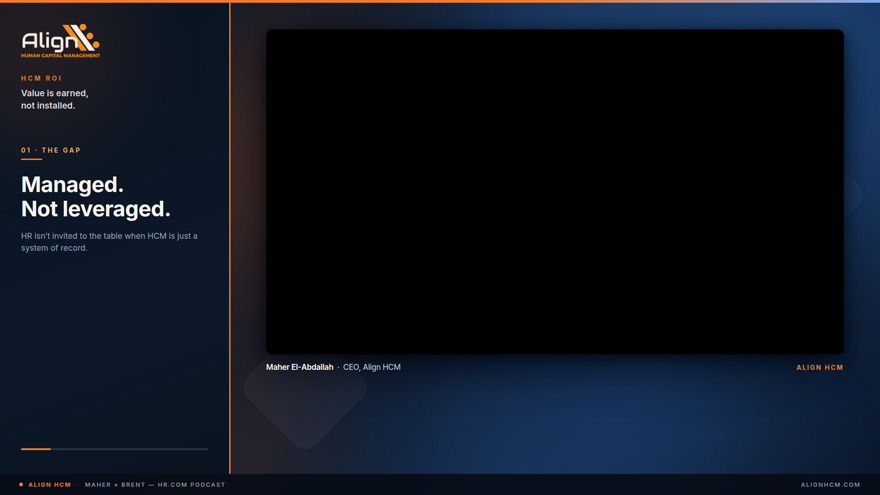
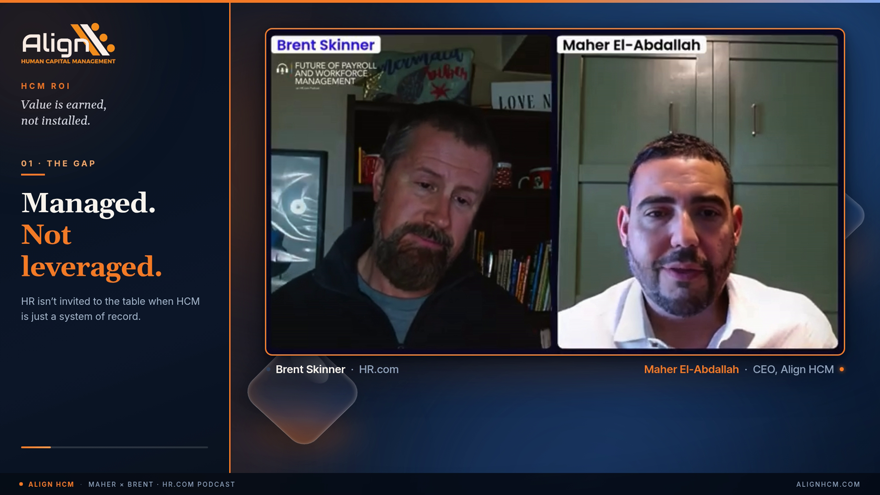
V2: two-up framing, bigger Gelasio type, swipe transitions, glass elements
Claude-Session: https://claude.ai/code/session_01EGRfP7ybnWtJjoejwcWe6i

diff --git a/03_Content/Video-Edits/align-hcm-maher-brent-roi-earned/pipeline/gfx.html b/03_Content/Video-Edits/align-hcm-maher-brent-roi-earned/pipeline/gfx.html
@@ -1,8 +1,10 @@
 <meta charset="utf-8">
 <style>
-  @font-face { font-family:'Libre Baskerville'; src:url('fonts/LibreBaskervilleRegular.ttf'); font-weight:400; }
-  @font-face { font-family:'Libre Baskerville'; src:url('fonts/LibreBaskervilleBold.ttf'); font-weight:700; }
-  @font-face { font-family:'Libre Baskerville'; src:url('fonts/LibreBaskervilleItalic.ttf'); font-style:italic; font-weight:400; }
+  @font-face { font-family:'Gelasio'; src:url('fonts/GelasioRegular.ttf'); font-weight:400; }
+  @font-face { font-family:'Gelasio'; src:url('fonts/GelasioSemiBold.ttf'); font-weight:600; }
+  @font-face { font-family:'Gelasio'; src:url('fonts/GelasioBold.ttf'); font-weight:700; }
+  @font-face { font-family:'Gelasio'; src:url('fonts/GelasioItalic.ttf'); font-style:italic; font-weight:400; }
+  @font-face { font-family:'Gelasio'; src:url('fonts/GelasioBoldItalic.ttf'); font-style:italic; font-weight:700; }
   @font-face { font-family:'Inter'; src:url('fonts/InterRegular.ttf'); font-weight:400; }
   @font-face { font-family:'Inter'; src:url('fonts/InterMedium.ttf'); font-weight:500; }
   @font-face { font-family:'Inter'; src:url('fonts/InterSemiBold.ttf'); font-weight:600; }
@@ -12,26 +14,36 @@
   * { margin:0; padding:0; box-sizing:border-box; }
   html,body { width:1920px; height:1080px; overflow:hidden; background:transparent; }
 
-  /* ---------- shared background (brand: #0E1A2B base) ---------- */
-  .stage { position:absolute; inset:0; width:1920px; height:1080px; overflow:hidden;
+  /* ---------- shared background ---------- */
+  .stage { position:absolute; inset:0; width:1920px; height:1080px; overflow:hidden; perspective:1300px;
            background:linear-gradient(118deg,#0B1626 0%,#0E1A2B 40%,#132A4A 74%,#0C1B31 100%); }
   .glow  { position:absolute; border-radius:50%; filter:blur(130px); }
   .glow.blue   { width:1150px; height:900px; right:-160px; top:-260px; background:rgba(46,105,180,.40); }
   .glow.blue2  { width:800px;  height:700px; right:240px;  bottom:-340px; background:rgba(38,84,150,.28); }
   .glow.orange { width:640px;  height:640px; left:280px;  top:40px;  background:rgba(198,90,28,.26); }
   .glow.orange2{ width:520px;  height:520px; left:180px; bottom:-200px; background:rgba(198,90,28,.16); }
-  .diamond { position:absolute; border-radius:34px; transform:rotate(45deg); background:rgba(255,255,255,.045); }
-  .d1 { width:230px; height:230px; right:300px; top:120px; }
-  .d2 { width:170px; height:170px; right:60px;  top:340px; background:rgba(255,255,255,.035); }
-  .d3 { width:210px; height:210px; left:560px;  bottom:130px; background:rgba(255,255,255,.04); }
   .vignette { position:absolute; inset:0; background:radial-gradient(120% 95% at 50% 42%, transparent 55%, rgba(4,9,18,.55) 100%); }
+
+  /* ---------- liquid glass squares ---------- */
+  .gwrap { position:absolute; transform-style:preserve-3d; }
+  .gshadow { position:absolute; left:-14%; top:64%; width:128%; height:60%; border-radius:50%;
+             filter:blur(30px);
+             background:radial-gradient(ellipse at center, rgba(244,122,37,.60) 0%, rgba(230,100,30,.28) 48%, rgba(244,122,37,0) 76%); }
+  .glass { position:absolute; inset:0; border-radius:20%; transform:rotate(45deg);
+           background:linear-gradient(135deg, rgba(255,255,255,.20) 0%, rgba(255,255,255,.06) 42%, rgba(127,169,240,.13) 72%, rgba(244,122,37,.10) 100%);
+           border:1.5px solid rgba(255,255,255,.30);
+           box-shadow: inset 0 2px 10px rgba(255,255,255,.28), inset 0 -14px 30px rgba(244,122,37,.14),
+                       0 24px 60px rgba(3,8,16,.45);
+           backdrop-filter: blur(12px) saturate(135%); }
+  .glass::after { content:''; position:absolute; left:8%; top:6%; width:52%; height:30%; border-radius:50%;
+                  background:linear-gradient(180deg, rgba(255,255,255,.30), rgba(255,255,255,0)); }
 
   /* ---------- top accent + footer ---------- */
   .topbar { position:absolute; left:0; right:0; top:0; height:6px; z-index:45;
             background:linear-gradient(90deg,#F47A25 0%,#F47A25 60%,#7FA9F0 100%); }
-  .footer { position:absolute; left:0; right:0; bottom:0; height:46px; background:rgba(7,12,22,.90);
+  .footer { position:absolute; left:0; right:0; bottom:0; height:48px; background:rgba(7,12,22,.90);
             display:flex; align-items:center; justify-content:space-between; padding:0 42px;
-            font-family:Inter; font-size:13px; letter-spacing:.16em; z-index:40; }
+            font-family:Inter; font-size:14px; letter-spacing:.16em; z-index:40; }
   .footer .l { display:flex; align-items:center; gap:12px; }
   .footer .dot { width:8px; height:8px; border-radius:50%; background:#F47A25; }
   .footer .brand { color:#F47A25; font-weight:700; }
@@ -39,65 +51,69 @@
   .footer .rest, .footer .r { color:#8FA3BC; font-weight:500; }
 
   /* ---------- intro ---------- */
-  #intro .dash { position:absolute; left:50%; top:288px; width:74px; height:4px; margin-left:-37px;
+  #intro .dash { position:absolute; left:50%; top:272px; width:84px; height:4px; margin-left:-42px;
                  background:linear-gradient(90deg,#F47A25,#7FA9F0); transform-origin:left; }
-  #intro .logoWrap { position:absolute; left:50%; top:352px; transform:translateX(-50%); width:620px; }
+  #intro .logoWrap { position:absolute; left:50%; top:336px; transform:translateX(-50%); width:660px; }
   #intro .logoWrap img { width:100%; display:block; }
-  #intro .tag { position:absolute; left:0; right:0; top:742px; text-align:center;
-                font-family:'Libre Baskerville'; font-style:italic; font-size:38px; color:#F7F4EE; }
+  #intro .tag { position:absolute; left:0; right:0; top:752px; text-align:center;
+                font-family:'Gelasio'; font-style:italic; font-size:48px; color:#F7F4EE; }
   #intro .tag .earned { color:#F47A25; }
-  #intro .ep { position:absolute; left:0; right:0; top:822px; text-align:center; font-family:Inter;
-               font-weight:600; font-size:15px; letter-spacing:.36em; color:#7E93AE; text-transform:uppercase; }
+  #intro .ep { position:absolute; left:0; right:0; top:846px; text-align:center; font-family:Inter;
+               font-weight:600; font-size:17px; letter-spacing:.36em; color:#8FA3BC; text-transform:uppercase; }
 
   /* ---------- outro ---------- */
-  #outro .dash { position:absolute; left:50%; top:262px; width:74px; height:4px; margin-left:-37px;
+  #outro .dash { position:absolute; left:50%; top:250px; width:84px; height:4px; margin-left:-42px;
                  background:linear-gradient(90deg,#F47A25,#7FA9F0); transform-origin:center; }
-  #outro .h1 { position:absolute; left:0; right:0; top:316px; text-align:center; font-family:'Libre Baskerville';
-               font-weight:700; font-size:78px; color:#F7F4EE; letter-spacing:-.5px; }
+  #outro .h1 { position:absolute; left:0; right:0; top:298px; text-align:center; font-family:'Gelasio';
+               font-weight:700; font-size:95px; color:#F7F4EE; letter-spacing:-1px; }
   #outro .h1 .accent { color:#F47A25; }
-  #outro .sub { position:absolute; left:0; right:0; top:466px; text-align:center; font-family:'Libre Baskerville';
-                font-style:italic; font-size:34px; color:#D9E3F2; }
+  #outro .sub { position:absolute; left:0; right:0; top:468px; text-align:center; font-family:'Gelasio';
+                font-style:italic; font-size:38px; color:#D9E3F2; }
   #outro .sub .orange { color:#F47A25; }
-  #outro .lockup { position:absolute; left:50%; top:592px; transform:translateX(-50%); width:340px; }
+  #outro .lockup { position:absolute; left:50%; top:600px; transform:translateX(-50%); width:350px; }
   #outro .lockup img { width:100%; display:block; }
-  #outro .url { position:absolute; left:0; right:0; top:796px; text-align:center; font-family:Inter;
-                font-weight:600; font-size:19px; letter-spacing:.34em; color:#F47A25; }
+  #outro .url { position:absolute; left:0; right:0; top:812px; text-align:center; font-family:Inter;
+                font-weight:700; font-size:21px; letter-spacing:.34em; color:#F47A25; }
 
-  /* ---------- plate: sidebar + box area (reference layout) ---------- */
-  .sidebar { position:absolute; left:0; top:6px; width:500px; height:1028px; z-index:30;
+  /* ---------- plate: sidebar + box ---------- */
+  .sidebar { position:absolute; left:0; top:6px; width:500px; height:1026px; z-index:30;
              background:linear-gradient(160deg,#0A1422 0%,#0C1828 70%,#0A1320 100%); }
   .sidebar .sglow { position:absolute; width:420px; height:420px; left:-140px; top:-120px; border-radius:50%;
                     background:rgba(198,90,28,.13); filter:blur(90px); }
-  .divider { position:absolute; left:500px; top:6px; width:3px; height:1028px; background:#F47A25; z-index:31; }
-  .sidebar .slogo { width:172px; margin:46px 0 0 46px; display:block; }
-  .sidebar .series { margin:34px 46px 0 46px; font-family:Inter; font-weight:700; font-size:14px;
+  .divider { position:absolute; left:500px; top:6px; width:3px; height:1026px; background:#F47A25; z-index:31; }
+  .sidebar .slogo { width:206px; margin:44px 0 0 46px; display:block; }
+  .sidebar .series { margin:36px 46px 0 46px; font-family:Inter; font-weight:700; font-size:17px;
                      letter-spacing:.30em; color:#F47A25; text-transform:uppercase; }
-  .sidebar .seriesTitle { margin:12px 46px 0 46px; font-family:Inter; font-weight:600; font-size:19px;
-                          line-height:1.4; color:#D9E3F2; }
-  .sidebar .secwrap { margin:74px 46px 0 46px; }
-  .sidebar .sec { font-family:Inter; font-weight:700; font-size:14px; letter-spacing:.26em;
+  .sidebar .seriesTitle { margin:14px 46px 0 46px; font-family:'Gelasio'; font-style:italic; font-weight:400;
+                          font-size:26px; line-height:1.35; color:#D9E3F2; }
+  .sidebar .secwrap { margin:64px 46px 0 46px; }
+  .sidebar .sec { font-family:Inter; font-weight:700; font-size:18px; letter-spacing:.24em;
                   color:#F4A96A; text-transform:uppercase; }
-  .sidebar .secline { width:46px; height:3px; background:#F47A25; margin-top:10px; }
-  .sidebar .h { margin-top:26px; font-family:Inter; font-weight:800; font-size:47px; line-height:1.14;
-                letter-spacing:-.015em; color:#F7F4EE; }
-  .sidebar .subtext { margin-top:20px; font-family:Inter; font-weight:400; font-size:17.5px; line-height:1.5;
-                      color:#93A5BD; max-width:400px; }
-  .sidebar .progresswrap { position:absolute; left:46px; bottom:52px; width:408px; }
+  .sidebar .secline { width:52px; height:4px; background:#F47A25; margin-top:12px; }
+  .sidebar .h { margin-top:28px; font-family:'Gelasio'; font-weight:700; font-size:60px; line-height:1.16;
+                letter-spacing:-1px; color:#F7F4EE; }
+  .sidebar .h .hl { color:#F47A25; }
+  .sidebar .subtext { margin-top:22px; font-family:Inter; font-weight:400; font-size:21.5px; line-height:1.5;
+                      color:#A6B7CC; max-width:410px; }
+  .sidebar .progresswrap { position:absolute; left:46px; bottom:54px; width:408px; }
   .sidebar .ptrack { width:100%; height:4px; background:rgba(255,255,255,.13); border-radius:2px; }
-  .sidebar .pfill { height:4px; background:#F47A25; border-radius:2px; width:20%; }
+  .sidebar .pfill { height:4px; background:linear-gradient(90deg,#F47A25,#FF9A4D); border-radius:2px; width:20%; }
 
-  /* under-box labels (on plate, below window) */
   .boxlabels { position:absolute; left:581px; top:791px; width:1260px; display:flex;
                justify-content:space-between; align-items:center; z-index:30; }
-  .boxlabels .who { font-family:'Inter Tight'; font-weight:500; font-size:17px; color:#AEBDD1; letter-spacing:.02em; }
+  .boxlabels .who { font-family:'Inter Tight'; font-weight:500; font-size:24px; color:#93A5BD; letter-spacing:.02em;
+                    display:flex; align-items:center; gap:12px; }
   .boxlabels .who b { color:#F7F4EE; font-weight:600; }
-  .boxlabels .brandtag { font-family:Inter; font-weight:700; font-size:14px; letter-spacing:.18em; color:#F47A25; }
+  .boxlabels .who .adot { width:9px; height:9px; border-radius:50%; background:#31405A; }
+  .boxlabels .who.active .adot { background:#F47A25; box-shadow:0 0 10px rgba(244,122,37,.8); }
+  .boxlabels .who.active b { color:#F47A25; }
 
-  /* window shadow on plate (video sits above it) */
   .window-shadow { position:absolute; left:581px; top:64px; width:1260px; height:709px; border-radius:14px;
                    box-shadow:0 30px 90px rgba(2,6,14,.75), 0 6px 26px rgba(2,6,14,.6); background:#000; }
+  .window-glow { position:absolute; left:601px; top:700px; width:1220px; height:120px; border-radius:50%;
+                 filter:blur(46px);
+                 background:radial-gradient(ellipse at center, rgba(244,122,37,.34) 0%, rgba(244,122,37,.10) 55%, transparent 78%); }
 
-  /* ---------- chrome pass: orange ring above video ---------- */
   .ring { position:absolute; left:578px; top:61px; width:1266px; height:715px; border-radius:16px;
           border:3px solid #F47A25; z-index:20; box-shadow:inset 0 1px 0 rgba(255,255,255,.06); }
 </style>
@@ -105,7 +121,9 @@
 <div class="stage" id="bg">
   <div class="glow blue"></div><div class="glow blue2"></div>
   <div class="glow orange"></div><div class="glow orange2"></div>
-  <div class="diamond d1"></div><div class="diamond d2"></div><div class="diamond d3"></div>
+  <div class="gwrap" id="g1" style="width:250px;height:250px;right:270px;top:90px;"><div class="gshadow"></div><div class="glass"></div></div>
+  <div class="gwrap" id="g2" style="width:150px;height:150px;right:64px;top:390px;"><div class="gshadow"></div><div class="glass"></div></div>
+  <div class="gwrap" id="g3" style="width:200px;height:200px;left:560px;bottom:110px;"><div class="gshadow"></div><div class="glass"></div></div>
   <div class="vignette"></div>
 </div>
 <div class="topbar" id="topbar" style="display:none"></div>
@@ -114,7 +132,7 @@
   <div class="dash"></div>
   <div class="logoWrap"><img id="introLogo" src="align-logo-white-2x.png"></div>
   <div class="tag">ROI isn&rsquo;t installed. <span class="earned">It&rsquo;s earned.</span></div>
-  <div class="ep">Maher El-Abdallah &times; Brent Skinner &mdash; HR.com Podcast</div>
+  <div class="ep">Maher El-Abdallah &times; Brent Skinner &middot; HR.com Podcast</div>
 </div>
 
 <div id="outro" style="display:none">
@@ -126,6 +144,7 @@
 </div>
 
 <div id="plate" style="display:none">
+  <div class="window-glow"></div>
   <div class="window-shadow"></div>
   <div class="sidebar">
     <div class="sglow"></div>
@@ -135,15 +154,15 @@
     <div class="secwrap">
       <div class="sec" id="pSec">01 &middot; THE GAP</div>
       <div class="secline"></div>
-      <div class="h" id="pHead">Managed.<br>Not leveraged.</div>
-      <div class="subtext" id="pSub">HR isn&rsquo;t invited when HCM is just a system of record.</div>
+      <div class="h" id="pHead">Managed.<br><span class="hl">Not leveraged.</span></div>
+      <div class="subtext" id="pSub">HR isn&rsquo;t invited to the table when HCM is just a system of record.</div>
     </div>
     <div class="progresswrap"><div class="ptrack"><div class="pfill" id="pFill"></div></div></div>
   </div>
   <div class="divider"></div>
   <div class="boxlabels">
-    <div class="who" id="pWho"><b>Maher El-Abdallah</b> &nbsp;&middot;&nbsp; CEO, Align HCM</div>
-    <div class="brandtag">ALIGN HCM</div>
+    <div class="who" id="pWhoL"><span class="adot"></span><span><b>Brent Skinner</b> &nbsp;&middot;&nbsp; HR.com</span></div>
+    <div class="who" id="pWhoR"><span><b>Maher El-Abdallah</b> &nbsp;&middot;&nbsp; CEO, Align HCM</span><span class="adot"></span></div>
   </div>
 </div>
 
@@ -153,7 +172,7 @@
 
 <div class="footer" id="footer" style="display:none">
   <div class="l"><span class="dot"></span><span class="brand">ALIGN HCM</span><span class="sep">&middot;</span>
-    <span class="rest">MAHER &times; BRENT &mdash; HR.COM PODCAST</span></div>
+    <span class="rest">MAHER &times; BRENT &middot; HR.COM PODCAST</span></div>
   <div class="r">ALIGNHCM.COM</div>
 </div>
 
@@ -169,32 +188,57 @@ const $ = s => document.querySelector(s);
 const clamp = (v,a,b) => Math.max(a, Math.min(b, v));
 const easeO = t => 1-Math.pow(1-t,3);
 const seg = (t,a,b) => clamp((t-a)/(b-a),0,1);
+const TAU = Math.PI*2;
 
 function setScene(name){
   ['intro','outro','plate','chrome','footer','topbar'].forEach(id => $('#'+id).style.display='none');
   $('#bg').style.display='block';
   if(name==='intro'){ $('#intro').style.display='block'; $('#footer').style.display='flex'; $('#topbar').style.display='block'; }
   if(name==='outro'){ $('#outro').style.display='block'; $('#footer').style.display='flex'; $('#topbar').style.display='block'; }
-  if(name==='plate'){ $('#plate').style.display='block'; $('#footer').style.display='flex'; $('#topbar').style.display='block'; }
+  if(name==='plate'){ $('#plate').style.display='block'; $('#footer').style.display='flex'; $('#topbar').style.display='block';
+    $('#footer').style.opacity=1; $('#bg').style.opacity=1; $('#topbar').style.opacity=1; }
   if(name==='chrome'){ $('#chrome').style.display='block'; $('#bg').style.display='none';
     document.body.style.background='transparent'; document.documentElement.style.background='transparent'; }
 }
-function setPlateParams(sec, head, sub, who, fill){
+function setPlateParams(sec, head, sub, active, fill){
   $('#pSec').innerHTML = sec;
   $('#pHead').innerHTML = head;
   $('#pSub').innerHTML = sub;
-  $('#pWho').innerHTML = who;
+  $('#pWhoL').classList.toggle('active', active === 'L');
+  $('#pWhoR').classList.toggle('active', active === 'R');
   $('#pFill').style.width = fill;
 }
 
-function bgSeek(t){
-  const drift = Math.sin(t*0.45)*14;
+/* liquid glass float: period-P seamless loop, 3D pop */
+function glassSeek(t, P){
+  const els = [
+    {id:'g1', amp:16, ph:0.00, rx:9,  ry:7,  sc:.035},
+    {id:'g2', amp:11, ph:0.33, rx:7,  ry:10, sc:.045},
+    {id:'g3', amp:14, ph:0.66, rx:8,  ry:6,  sc:.04},
+  ];
+  for(const e of els){
+    const w = TAU*(t/P + e.ph);
+    const y = Math.sin(w)*e.amp;
+    const g = $('#'+e.id);
+    if(!g) continue;
+    g.style.transform = `translateY(${y}px) rotateX(${Math.sin(w)*e.rx}deg) rotateY(${Math.cos(w)*e.ry}deg) scale(${1 + Math.sin(w)*e.sc})`;
+    const sh = g.querySelector('.gshadow');
+    const lift = (Math.sin(w)+1)/2;                 // 0 low .. 1 high
+    sh.style.opacity = String(0.55 + lift*0.45);
+    sh.style.transform = `translateY(${lift*10+6}px) scale(${1.04 + lift*0.16})`;
+    sh.style.filter = `blur(${26 + lift*12}px)`;
+  }
+}
+function bgSeek(t, P){
+  P = P || 4;
+  const drift = Math.sin(TAU*t/P)*14;
   $('.glow.blue').style.transform   = `translate(${drift}px, ${-drift*0.6}px)`;
   $('.glow.orange').style.transform = `translate(${-drift*0.7}px, ${drift*0.5}px)`;
+  glassSeek(t, P);
 }
 
 function introSeek(t){
-  bgSeek(t);
+  bgSeek(t, 4.8);
   $('#bg').style.opacity = seg(t,0,0.55);
   $('#topbar').style.opacity = seg(t,0.3,0.9);
   $('#intro .dash').style.transform = `scaleX(${easeO(seg(t,0.45,1.05))})`;
@@ -217,7 +261,7 @@ function introSeek(t){
 }
 
 function outroSeek(t){
-  bgSeek(t+3.1);
+  bgSeek(t+2.0, 6.0);
   $('#bg').style.opacity = 1; $('#footer').style.opacity = 1; $('#topbar').style.opacity = 1;
   $('#outro .dash').style.transform = `scaleX(${easeO(seg(t,0.15,0.7))})`;
   const hq = easeO(seg(t,0.35,1.25));
@@ -237,7 +281,7 @@ function outroSeek(t){
 window.seek = (t, scene) => {
   if(scene==='intro') introSeek(t);
   else if(scene==='outro') outroSeek(t);
-  else bgSeek(t);
+  else bgSeek(t, 4);          /* plate: 4s seamless loop */
   return true;
 };
 window.setScene = setScene;

diff --git a/03_Content/Video-Edits/align-hcm-maher-brent-roi-earned/pipeline/build_captions_master.py b/03_Content/Video-Edits/align-hcm-maher-brent-roi-earned/pipeline/build_captions_master.py
@@ -13,11 +13,11 @@ TRANSP = r"{\alpha&HFF&}"
 
 # (label, src_start, src_end, final_start)
 SEGS = [
-    ("A1", 7.50, 14.92, 4.30),
-    ("A2", 16.30, 29.55, 11.37),
-    ("B",  68.10, 74.60, 24.12),
-    ("C1", 79.45, 95.95, 30.12),
-    ("C2", 116.30, 128.10, 46.60),
+    ("A1", 7.50, 14.92, 4.25),
+    ("A2", 16.30, 29.55, 11.22),
+    ("B",  68.10, 74.60, 23.92),
+    ("C1", 79.45, 95.95, 29.87),
+    ("C2", 116.30, 128.10, 45.87),
 ]
 ACCENT_WORDS = set()  # active-word highlight carries the accent; no static accents
 
@@ -32,7 +32,7 @@ events = []
 prev_t1 = 0.0
 for label, a, b, fstart in SEGS:
     delta = fstart - a
-    seg_words = [w for w in words if a <= w["t0"] < b]
+    seg_words = [dict(w, w=w["w"].lstrip("-")) for w in words if a <= w["t0"] < b and w["w"].lstrip("-")]
     # group into lines
     lines, buf = [], []
     for w in seg_words:
@@ -78,7 +78,7 @@ ScaledBorderAndShadow: yes
 
 [V4+ Styles]
 Format: Name, Fontname, Fontsize, PrimaryColour, SecondaryColour, OutlineColour, BackColour, Bold, Italic, Underline, StrikeOut, ScaleX, ScaleY, Spacing, Angle, BorderStyle, Outline, Shadow, Alignment, MarginL, MarginR, MarginV, Encoding
-Style: Cap,Inter Tight SemiBold,46,{CREAM},{CREAM},&H00000000,&H78000000,0,0,0,0,100,100,0,0,1,0,1.5,2,593,90,66,1
+Style: Cap,Gelasio SemiBold,58,{CREAM},{CREAM},&H00000000,&H78000000,0,0,0,0,100,100,0,0,1,0,2,2,593,90,64,1
 
 [Events]
 Format: Layer, Start, End, Style, Name, MarginL, MarginR, MarginV, Effect, Text

diff --git a/03_Content/Video-Edits/align-hcm-maher-brent-roi-earned/production-notes.md b/03_Content/Video-Edits/align-hcm-maher-brent-roi-earned/production-notes.md
@@ -13,7 +13,7 @@
 | Beat | Source (s) | Final start | Framing | Sidebar |
 |------|-----------|-------------|---------|---------|
 | Intro — ink-reveal logo | — | 0.0 | — | — |
-| A1 · Maher | 7.50–14.92 | 4.30 | Maher solo | 01 · The Gap — "Managed. Not leveraged." |
+| A1 · Maher | 7.50–14.92 | 4.25 | Two-up | 01 · The Gap, "Managed. Not leveraged." |
 | A2 · Maher | 16.30–29.55 | 11.37 | Maher solo | (same plate, dissolve seam) |
 | B · Brent | 68.10–74.60 | 24.12 | Brent solo | 02 · The Question — "What about layers two & three?" |
 | C1 · Maher | 79.45–95.95 | 30.12 | Two-up | 03 · The Answer — "Foundation to skyscraper." |
@@ -39,3 +39,12 @@ Transitions: fade 0.5 (intro→A1), dissolve 0.35 (A1→A2 source seam), smoothl
 4. `assemble.sh` — ffmpeg: crop/scale each beat, rounded-corner alphamerge, plate + ring overlays, xfade/acrossfade chains, ASS burn-in, loudnorm, H.264 export.
 
 Exact Align logo pulled from alignhcm.com (`align white logo.png` / reversed variant generated from `Align HCM logo.png`).
+
+## V2 revisions (client feedback)
+
+- Both speakers stay in frame for every beat (two-up crop `2340:1316:264:2`; takeaway beat is a 1.06x punch-in of the same two-up).
+- Type scale increased across the board: sidebar serif headlines 60px Gelasio Bold (Georgia-family match to the PowerPoint template), captions 58px Gelasio SemiBold, series title 26px, labels 24px.
+- All transitions are directional swipes (smoothright/smoothleft/smoothup xfades) with matching audio crossfades.
+- Dual speaker labels under the box, one per speaker half; the active speaker's name renders orange with a glowing dot.
+- Background diamonds rebuilt as liquid-glass 3D elements (backdrop blur, specular highlight, rotateX/rotateY float on a 4s seamless loop) with orange radial-gradient shadows beneath; plates are now animated 4s loop videos rather than stills.
+- No dashes anywhere in on-screen text; whisper's stray hyphen tokens stripped from captions.
